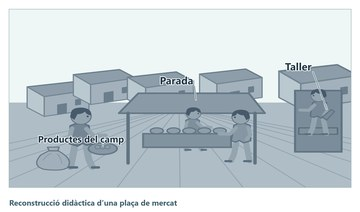
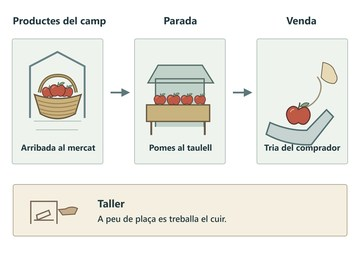
Revisa M042 i publica la prova M043 (v0.1.89)

diff --git a/docs/continguts/terra-i-mapes.js b/docs/continguts/terra-i-mapes.js
@@ -3151,37 +3151,48 @@ window.quaderns ??= [];
     coverFigure: 'planta-ciutat-medieval',
     figures: [
       {
-        id: 'planta-ciutat-medieval', section: 'muralla', name: 'D’una porta al mercat i al taller', ratio: 2280 / 1440,
+        id: 'planta-ciutat-medieval', section: 'muralla', name: 'D’una porta al mercat i al taller', ratio: 2280 / 1640,
         width: 100, position: 'center', wrap: false, anchor: 'lead',
-        alt: 'Una muralla amb una porta separa la ciutat del raval. Hi ha més d’un carrer que comunica la plaça del mercat amb la porta o el taller.',
-        caption: 'Planta d’una ciutat medieval imaginària. Tria un recorregut de tres parades i explica quina funció té cada espai.',
-        credit: 'Dibuix didàctic de producció pròpia.',
         variants: {
-          pla: { src: 'illustracions/m042/planta-ciutat-medieval-pla.png', thumbnail: 'illustracions/m042/miniatures/planta-ciutat-medieval-pla.jpg' },
-          atles: { src: 'illustracions/m042/planta-ciutat-medieval-atles.png', thumbnail: 'illustracions/m042/miniatures/planta-ciutat-medieval-atles.jpg' },
+          pla: {
+            src: 'illustracions/m042/planta-ciutat-medieval-pla.png', thumbnail: 'illustracions/m042/miniatures/planta-ciutat-medieval-pla.jpg',
+            alt: 'Plànol amb muralla, porta, raval, plaça del mercat i taller. Hi ha més d’un camí per arribar a la plaça i al taller.',
+            caption: 'Plànol d’un barri medieval imaginari. Troba dos recorreguts possibles entre la porta, la plaça i el taller.',
+            credit: 'Dibuix de producció pròpia a partir de la geometria compartida amb la vista elevada.',
+          },
+          atles: {
+            src: 'illustracions/m042/planta-ciutat-medieval-atles.png', thumbnail: 'illustracions/m042/miniatures/planta-ciutat-medieval-atles.jpg',
+            alt: 'Vista elevada del mateix barri. La muralla és de pedra i les teulades de teula. A la plaça hi ha dues parades i el taller s’obre al carrer.',
+            caption: 'Vista elevada del mateix barri. Fixa’t en la porta i les bifurcacions. Per on aniries de la plaça al taller?',
+            credit: 'Reconstrucció didàctica en tres dimensions inspirada en l’urbanisme de la Barcelona medieval.',
+          },
         },
       },
       {
-        id: 'mercat-oficis-i-productes', section: 'placa', name: 'Una plaça amb feines diferents', ratio: 2280 / 1340,
+        id: 'mercat-oficis-i-productes', section: 'placa', name: 'Una plaça amb feines diferents', ratio: 2280 / 1640,
         width: 100, position: 'center', wrap: false, anchor: 'lead',
-        alt: 'Una persona arriba amb productes del camp, una parada els posa a la venda i una persona treballa en un taller obert a la plaça.',
-        caption: 'Reconstrucció didàctica d’una plaça de mercat. Segueix un producte del camp fins a la parada i identifica què es fa al taller.',
-        credit: 'Dibuix didàctic de producció pròpia.',
         variants: {
-          pla: { src: 'illustracions/m042/mercat-oficis-i-productes-pla.png', thumbnail: 'illustracions/m042/miniatures/mercat-oficis-i-productes-pla.jpg' },
-          atles: { src: 'illustracions/m042/mercat-oficis-i-productes-atles.png', thumbnail: 'illustracions/m042/miniatures/mercat-oficis-i-productes-atles.jpg' },
+          pla: {
+            src: 'illustracions/m042/mercat-oficis-i-productes-pla.png', thumbnail: 'illustracions/m042/miniatures/mercat-oficis-i-productes-pla.jpg',
+            alt: 'Tres vinyetes segueixen unes pomes d’una cistella a la parada i a la mà del comprador. Un requadre separat indica el taller de cuir.',
+            caption: 'Segueix les pomes en els tres moments. Quina feina es fa al taller, al costat del mercat?',
+            credit: 'Esquema didàctic de producció pròpia.',
+          },
+          atles: {
+            src: 'illustracions/m042/mercat-oficis-i-productes-atles.png', thumbnail: 'illustracions/m042/miniatures/mercat-oficis-i-productes-atles.jpg',
+            alt: 'A peu de plaça, una dona porta una cistella de pomes. Una venedora les posa al taulell i un comprador en tria una. A la dreta, un artesà treballa el cuir.',
+            caption: 'Reconstrucció d’una plaça medieval. Segueix les pomes de la cistella a la parada. Quina pista deixa veure què es fa al taller?',
+            credit: 'Reconstrucció didàctica generada, inspirada en l’activitat del mercat i els oficis urbans medievals.',
+          },
         },
       },
       {
-        id: 'tres-fonts-sobre-una-epidemia', section: 'malalties', name: 'Tres documents sobre una epidèmia a la ciutat', ratio: 2280 / 1320,
+        id: 'tres-fonts-sobre-una-epidemia', section: 'malalties', name: 'Tres documents sobre una epidèmia a la ciutat', ratio: 2280 / 1640,
         width: 100, position: 'center', wrap: false, anchor: 'lead',
-        alt: 'Tres targetes presenten un registre d’enterraments amb dates, un testament amb una disposició i una ordenança amb una regla municipal.',
-        caption: 'Tres exemples inventats. Quin document serviria per comptar enterraments? Quin ajudaria a entendre una decisió del govern local?',
-        credit: 'Dibuix didàctic de producció pròpia.',
-        variants: {
-          pla: { src: 'illustracions/m042/tres-fonts-sobre-una-epidemia-pla.png', thumbnail: 'illustracions/m042/miniatures/tres-fonts-sobre-una-epidemia-pla.jpg' },
-          atles: { src: 'illustracions/m042/tres-fonts-sobre-una-epidemia-atles.png', thumbnail: 'illustracions/m042/miniatures/tres-fonts-sobre-una-epidemia-atles.jpg' },
-        },
+        alt: 'Tres fragments inventats amb transcripcions. Un registre conté dates d’enterrament, un testament deixa estris i una ordenança estableix un avís.',
+        caption: 'Tres fragments inventats amb la transcripció en català actual. Quin document serviria per comptar enterraments? Quin ajudaria a entendre una decisió del consell?',
+        credit: 'Fragments i transcripcions didàctics de producció pròpia.',
+        src: 'illustracions/m042/tres-fonts-sobre-una-epidemia.png', thumbnail: 'illustracions/m042/miniatures/tres-fonts-sobre-una-epidemia.jpg',
       },
     ],
     sections: [
@@ -3209,12 +3220,13 @@ window.quaderns ??= [];
     collection: { id: 'medieval', title: 'L’edat mitjana' },
     theme: 'Història',
     figureStyles: [
-      { id: 'pla', label: 'Pla', description: 'Formes planes, traços nets i una paleta més gràfica.' },
-      { id: 'atles', label: 'Atles', description: 'Volum, textura i contrast de color.' },
+      { id: 'pla', label: 'Pla', description: 'Planta per resseguir els carrers i seqüència per seguir el producte.' },
+      { id: 'atles', label: 'Atles', description: 'Vista elevada del barri i reconstrucció a peu de plaça.' },
     ],
     description: 'Interpreta la muralla, els barris i els mercats d’una ciutat medieval i relaciona la vida urbana amb els riscos de malaltia.',
     curriculum: [{ row: 'medi:passat', section: 'carrers', note: 'Interpreta la muralla, els barris i els mercats d’una ciutat medieval i relaciona la vida urbana amb els riscos de malaltia.' }],
     sources: [
+      ['Arxiu Municipal de Barcelona · Itinerari per Ciutat Vella', 'https://ajuntament.barcelona.cat/arxiumunicipal/sites/default/files/2022-06/ITINERARI%20PER%20CIUTAT%20VELLA_def.pdf'],
       ['Museu d’Història de Catalunya · Guia del museu', 'https://www.mhcat.cat/enmhc/visiting_the_museum/plano_libreria/guide_to_visit_the_museum/audio_guide/guia_de_visita_al_museo/segona_planta'],
       ['MHC · La mar nostra', 'https://www.mhcat.cat/exposicions/la_memoria_d_un_pais/la_mar_nostra'],
       ['MHC · Edat mitjana', 'https://www.mhcat.cat/esmhc/consulta_la_coleccion/els_destacats_del_museu/els_destacats_del_museu/edat_mitjana'],
@@ -3225,6 +3237,27 @@ window.quaderns ??= [];
     id: 'romanic-i-gotic',
     title: 'Llegim el romànic i el gòtic als edificis',
     intro: 'En entrar en dues esglésies medievals podem observar la forma dels arcs, la llum que hi entra i el pes que han de suportar les parets. Què indica cada detall?',
+    coverFigure: 'arcs-i-llum',
+    figures: [
+      {
+        id: 'arcs-i-llum', section: 'romanic', name: 'Arcs i llum a l’interior', ratio: 2280 / 1640,
+        width: 100, position: 'center', wrap: false, anchor: 'lead',
+        variants: {
+          pla: {
+            src: 'illustracions/m043/arcs-i-llum-pla.png', thumbnail: 'illustracions/m043/miniatures/arcs-i-llum-pla.jpg',
+            alt: 'Dibuix d’un arc de mig punt amb un mur gruixut i una finestra petita, al costat d’un arc apuntat i un finestral més gran.',
+            caption: 'Dos perfils de mostra sense escala comuna. Compara la forma dels arcs i l’amplada de les obertures.',
+            credit: 'Esquema didàctic de producció pròpia.',
+          },
+          atles: {
+            src: 'illustracions/m043/arcs-i-llum-atles.png', thumbnail: 'illustracions/m043/miniatures/arcs-i-llum-atles.jpg',
+            alt: 'Dos interiors imaginats. La llum entra per una finestra petita sota arcs de mig punt i per un finestral gran sota les voltes de creueria.',
+            caption: 'Dos interiors imaginats, inspirats en el romànic de la Vall de Boí i el gòtic barceloní. Què canvia en la llum quan són diferents les obertures?',
+            credit: 'Reconstruccions generades amb Sant Climent de Taüll i Santa Maria del Mar com a referents d’arquitectura.',
+          },
+        },
+      },
+    ],
     sections: [
       section('romanic', 'Arcs rodons i pintures murals',
         essencial('En moltes esglésies **romàniques** hi ha arcs de mig punt, murs gruixuts i finestres petites.'),
@@ -3243,9 +3276,15 @@ window.quaderns ??= [];
   }, {
     collection: { id: 'medieval', title: 'L’edat mitjana' },
     theme: 'Història',
+    figureStyles: [
+      { id: 'pla', label: 'Pla', description: 'Perfils per comparar la forma dels arcs i les obertures.' },
+      { id: 'atles', label: 'Atles', description: 'Vistes interiors per observar la llum i els materials.' },
+    ],
     description: 'Distingeix elements del romànic i del gòtic i compara la Vall de Boí i Santa Maria del Mar.',
     curriculum: [{ row: 'medi:passat', section: 'santa-maria', note: 'Distingeix elements del romànic i del gòtic i compara la Vall de Boí i Santa Maria del Mar.' }],
     sources: [
+      ['Centre del Romànic · Sant Climent de Taüll', 'https://www.centreromanic.com/esglesia/sant-climent-de-taull/'],
+      ['Ajuntament de Barcelona · Santa Maria del Mar', 'https://guia.barcelona.cat/detall/visites-a-santa-maria-del-mar_99400477080.html'],
       ['UNESCO · Esglésies romàniques de la Vall de Boí', 'https://whc.unesco.org/en/list/988/'],
       ['MHC · La mar nostra', 'https://www.mhcat.cat/exposicions/la_memoria_d_un_pais/la_mar_nostra'],
     ],

diff --git a/docs/index.html b/docs/index.html
@@ -7,17 +7,17 @@
   <title>Món a mà · Apunts i materials per explorar el medi</title>
   <link rel="icon" type="image/png" sizes="32x32" href="assets/favicon.png?v=0.1.4">
   <link rel="apple-touch-icon" href="assets/mon-a-ma.png?v=0.1.4">
-  <link rel="stylesheet" href="estils.css?v=0.1.88">
-  <script src="interficie.js?v=0.1.88" defer></script>
-  <script src="continguts/terra-i-mapes.js?v=0.1.88" defer></script>
-  <script src="continguts/variants-terra-i-mapes.js?v=0.1.88" defer></script>
-  <script src="continguts/temes-3r-cicle-2.js?v=0.1.88" defer></script>
-  <script src="imprimible.js?v=0.1.88" defer></script>
-  <script src="preferencies.js?v=0.1.88" defer></script>
-  <script src="continguts/curriculum.js?v=0.1.88" defer></script>
-  <script src="mapa-curricular.js?v=0.1.88" defer></script>
-  <script src="incidencies.js?v=0.1.88" defer></script>
-  <script src="app.js?v=0.1.88" defer></script>
+  <link rel="stylesheet" href="estils.css?v=0.1.89">
+  <script src="interficie.js?v=0.1.89" defer></script>
+  <script src="continguts/terra-i-mapes.js?v=0.1.89" defer></script>
+  <script src="continguts/variants-terra-i-mapes.js?v=0.1.89" defer></script>
+  <script src="continguts/temes-3r-cicle-2.js?v=0.1.89" defer></script>
+  <script src="imprimible.js?v=0.1.89" defer></script>
+  <script src="preferencies.js?v=0.1.89" defer></script>
+  <script src="continguts/curriculum.js?v=0.1.89" defer></script>
+  <script src="mapa-curricular.js?v=0.1.89" defer></script>
+  <script src="incidencies.js?v=0.1.89" defer></script>
+  <script src="app.js?v=0.1.89" defer></script>
 </head>
 <body>
   <a class="skip" href="#main">Ves al contingut</a>
@@ -328,7 +328,7 @@
         <button type="button" id="reset-user" title="Restableix els ajustos de totes les fitxes, les plantilles, les col·leccions i les imatges pròpies.">Restableix preferències</button>
         <span id="reset-user-status" role="status"></span>
         <a href="https://github.com/aaronFortuno/mon-a-ma/blob/main/license.md">MIT</a>
-        <button type="button" data-dialog="release" aria-haspopup="dialog" aria-label="v0.1.88 · Historial de versions">v0.1.88</button>
+        <button type="button" data-dialog="release" aria-haspopup="dialog" aria-label="v0.1.89 · Historial de versions">v0.1.89</button>
         <button type="button" data-dialog="about" aria-haspopup="dialog" aria-label="V4V · Sobre el projecte">V4V</button>
       </nav>
     </div>
@@ -339,6 +339,11 @@
       <form method="dialog"><button type="submit" class="icon-button" aria-label="Tanca" autofocus><svg viewBox="0 0 24 24" aria-hidden="true"><path d="m6 6 12 12M18 6 6 18"/></svg></button></form>
     </div>
     <div class="dialog-content">
+      <h3>v0.1.89</h3>
+      <ul>
+        <li>Revisa les il·lustracions de l’M042 amb un mateix barri en planta i en vista elevada, una escena a peu de plaça i una làmina de fonts compartida.</li>
+        <li>Afegeix la prova d’arcs i llum de l’M043 en dos estils i marca la fitxa al mapa curricular com a il·lustracions en validació.</li>
+      </ul>
       <h3>v0.1.88</h3>
       <ul><li>Incorpora a l’M039 la prova en esborrany del castell amb planta Pla i tall Atles, pendent de validació.</li></ul>
       <h3>v0.1.87</h3>

diff --git a/CHANGELOG.md b/CHANGELOG.md
@@ -1,5 +1,10 @@
 # Historial de versions
 
+## 0.1.89 · 28 de novembre de 2026
+
+- Revisa les il·lustracions de l’M042 amb un mateix barri en planta i en vista elevada, una escena a peu de plaça i una làmina de fonts compartida.
+- Afegeix la prova d’arcs i llum de l’M043 en dos estils i marca la fitxa al mapa curricular com a il·lustracions en validació.
+
 ## 0.1.88 · 28 de novembre de 2026
 
 - Incorpora a l’M039 la prova en esborrany del castell amb planta Pla i tall Atles, pendent de validació.
